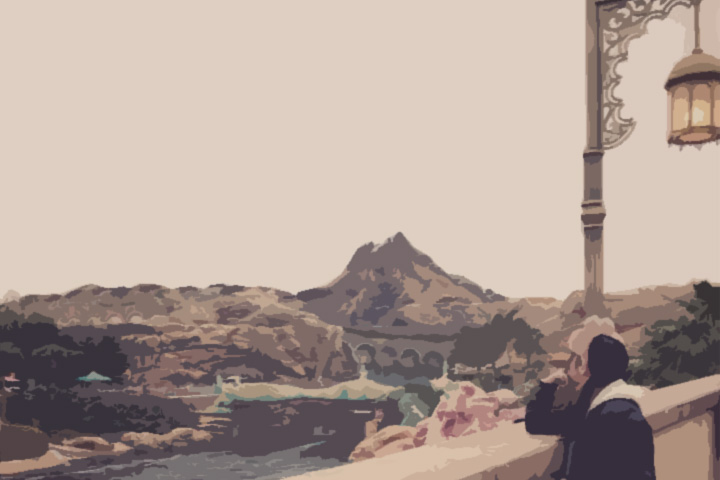
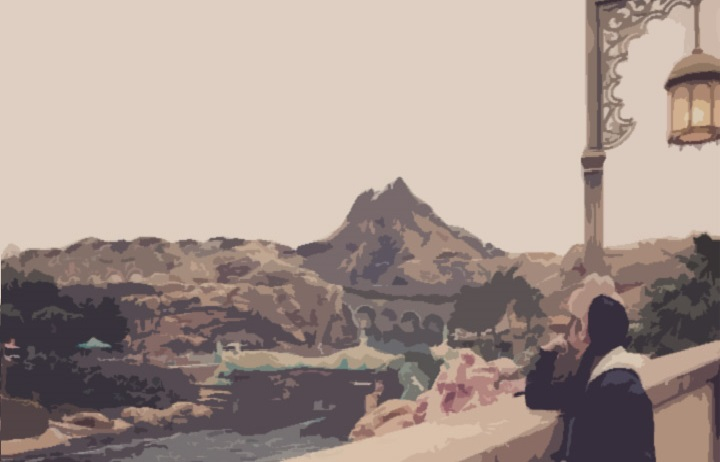
background update01

diff --git a/index.html b/index.html
@@ -31,7 +31,7 @@
   <main class="main">
 
     <!-- トップ -->
-    <div class="bg-holder1 pic1" data-width="720" data-height="480">
+    <div class="bg-holder1 pic1" data-width="720" data-height="462">
       <div class="main-top" width="100%"><a name="top" id="top"></a>
         <img src="/images/logo-test.png" />
         <br /><br /><br /><br /><br /><br /><br /><br /><br /><br />
@@ -151,7 +151,7 @@
       </div>
     </div></section>
 
-    <div class="bg-holder2 pic3" data-width="720" data-height="340">
+    <div class="bg-holder2 pic3" data-width="720" data-height="367">
       <br /><br /><br /><br /><br /><br />
     </div>
 

diff --git a/css/application.css b/css/application.css
@@ -143,7 +143,7 @@ body {
 }
 
 .pic1 {
-  background-image: url('/images/bg/top_back1_1.jpg');
+  background-image: url('/images/bg/top_back1.jpg');
 }
 .pic2 {
   background-image: url('/images/bg/top_back2.jpg');
